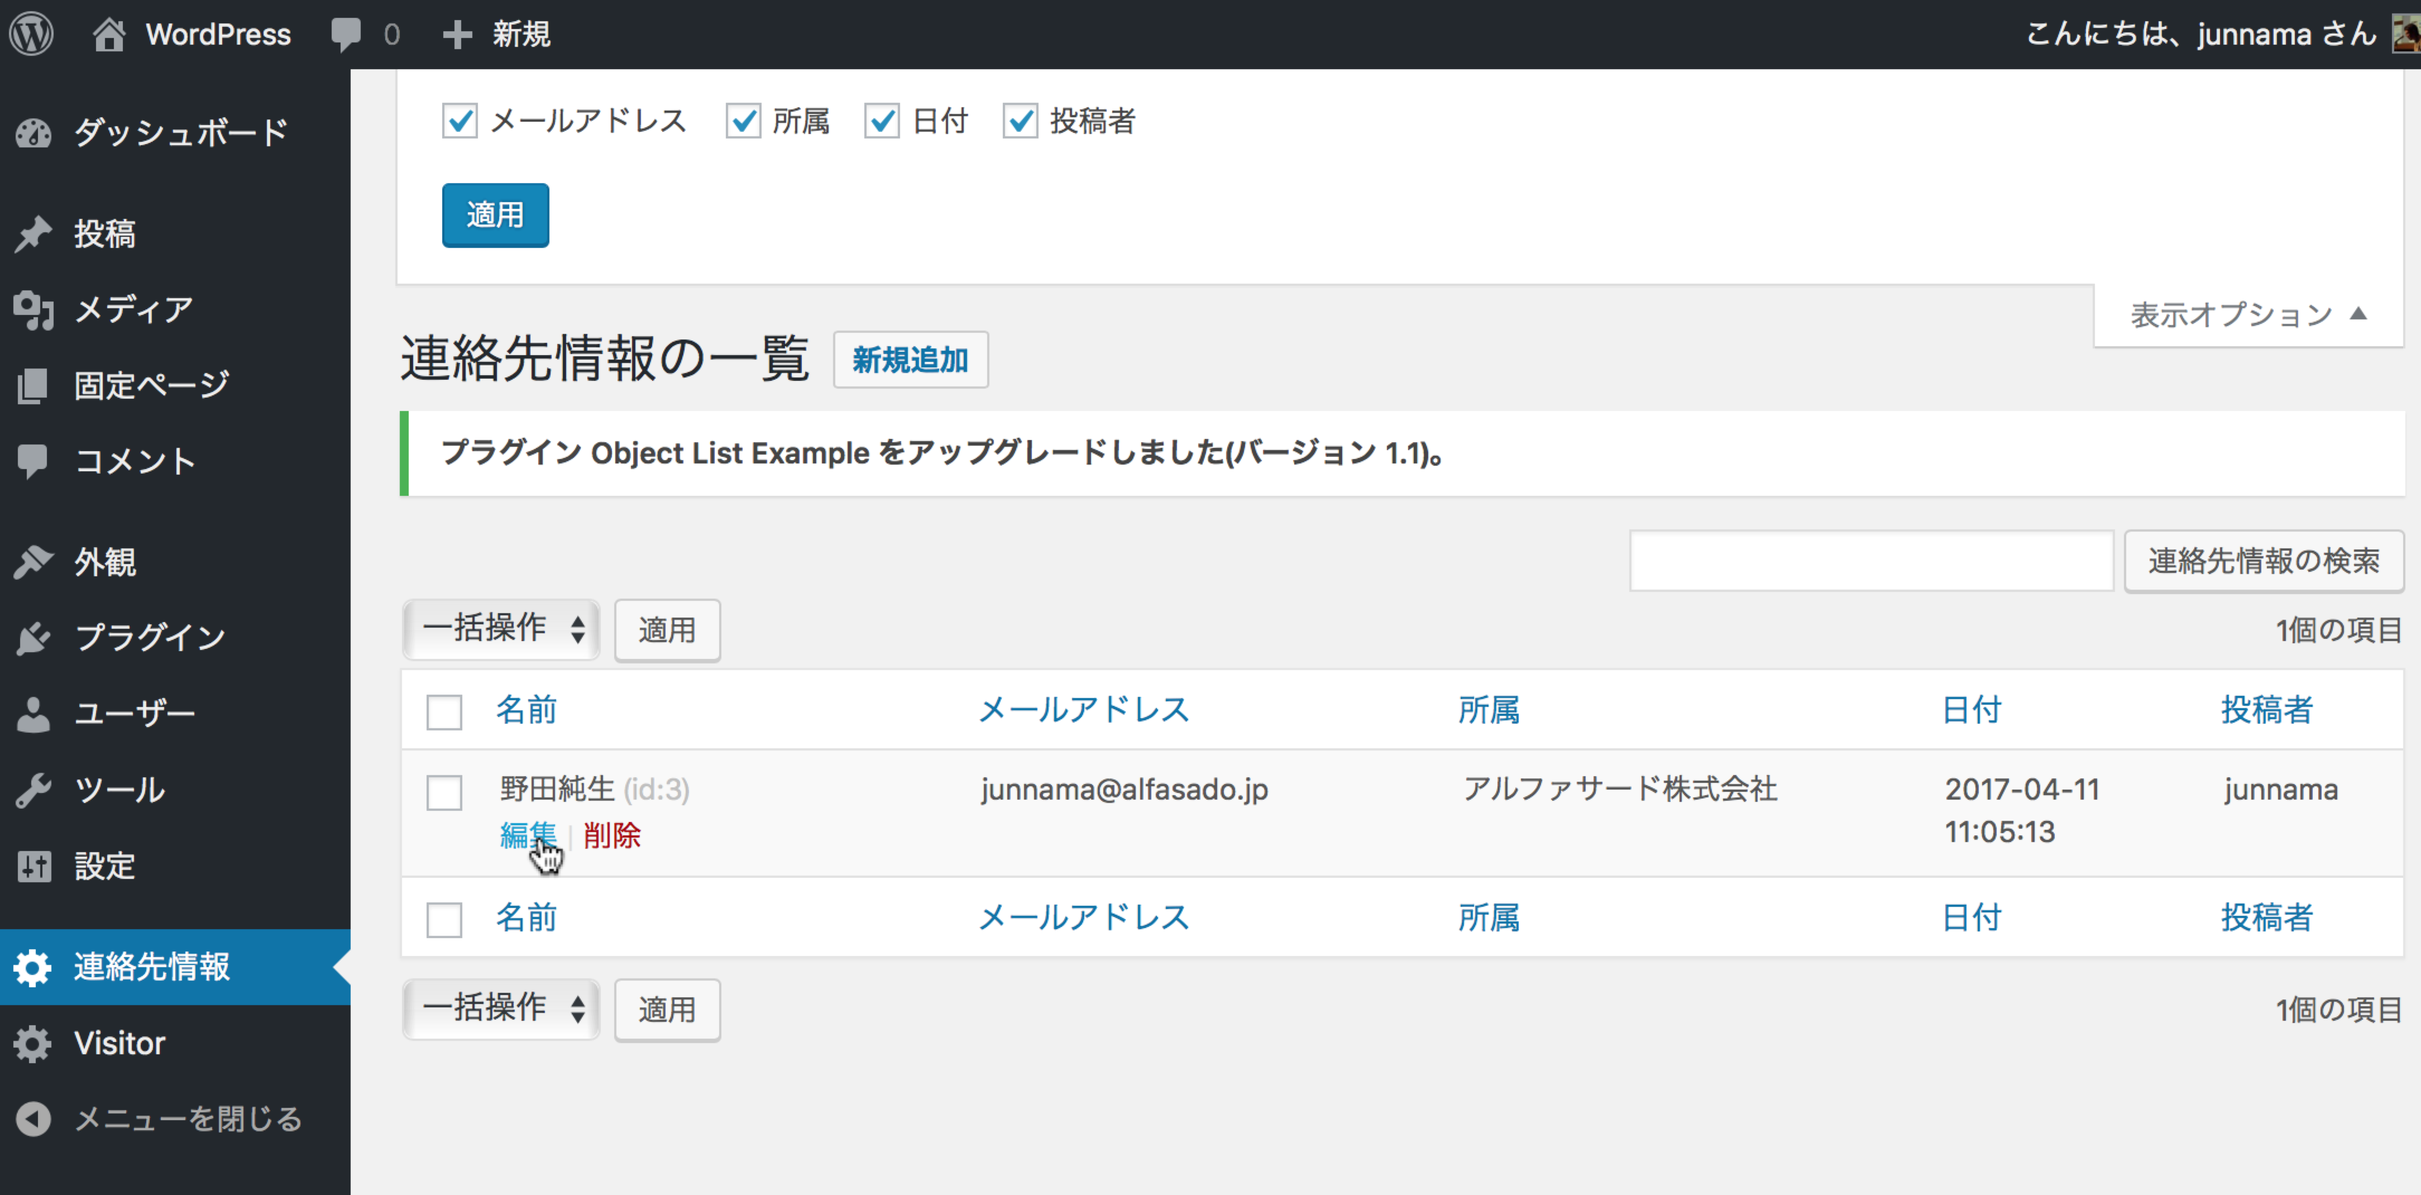
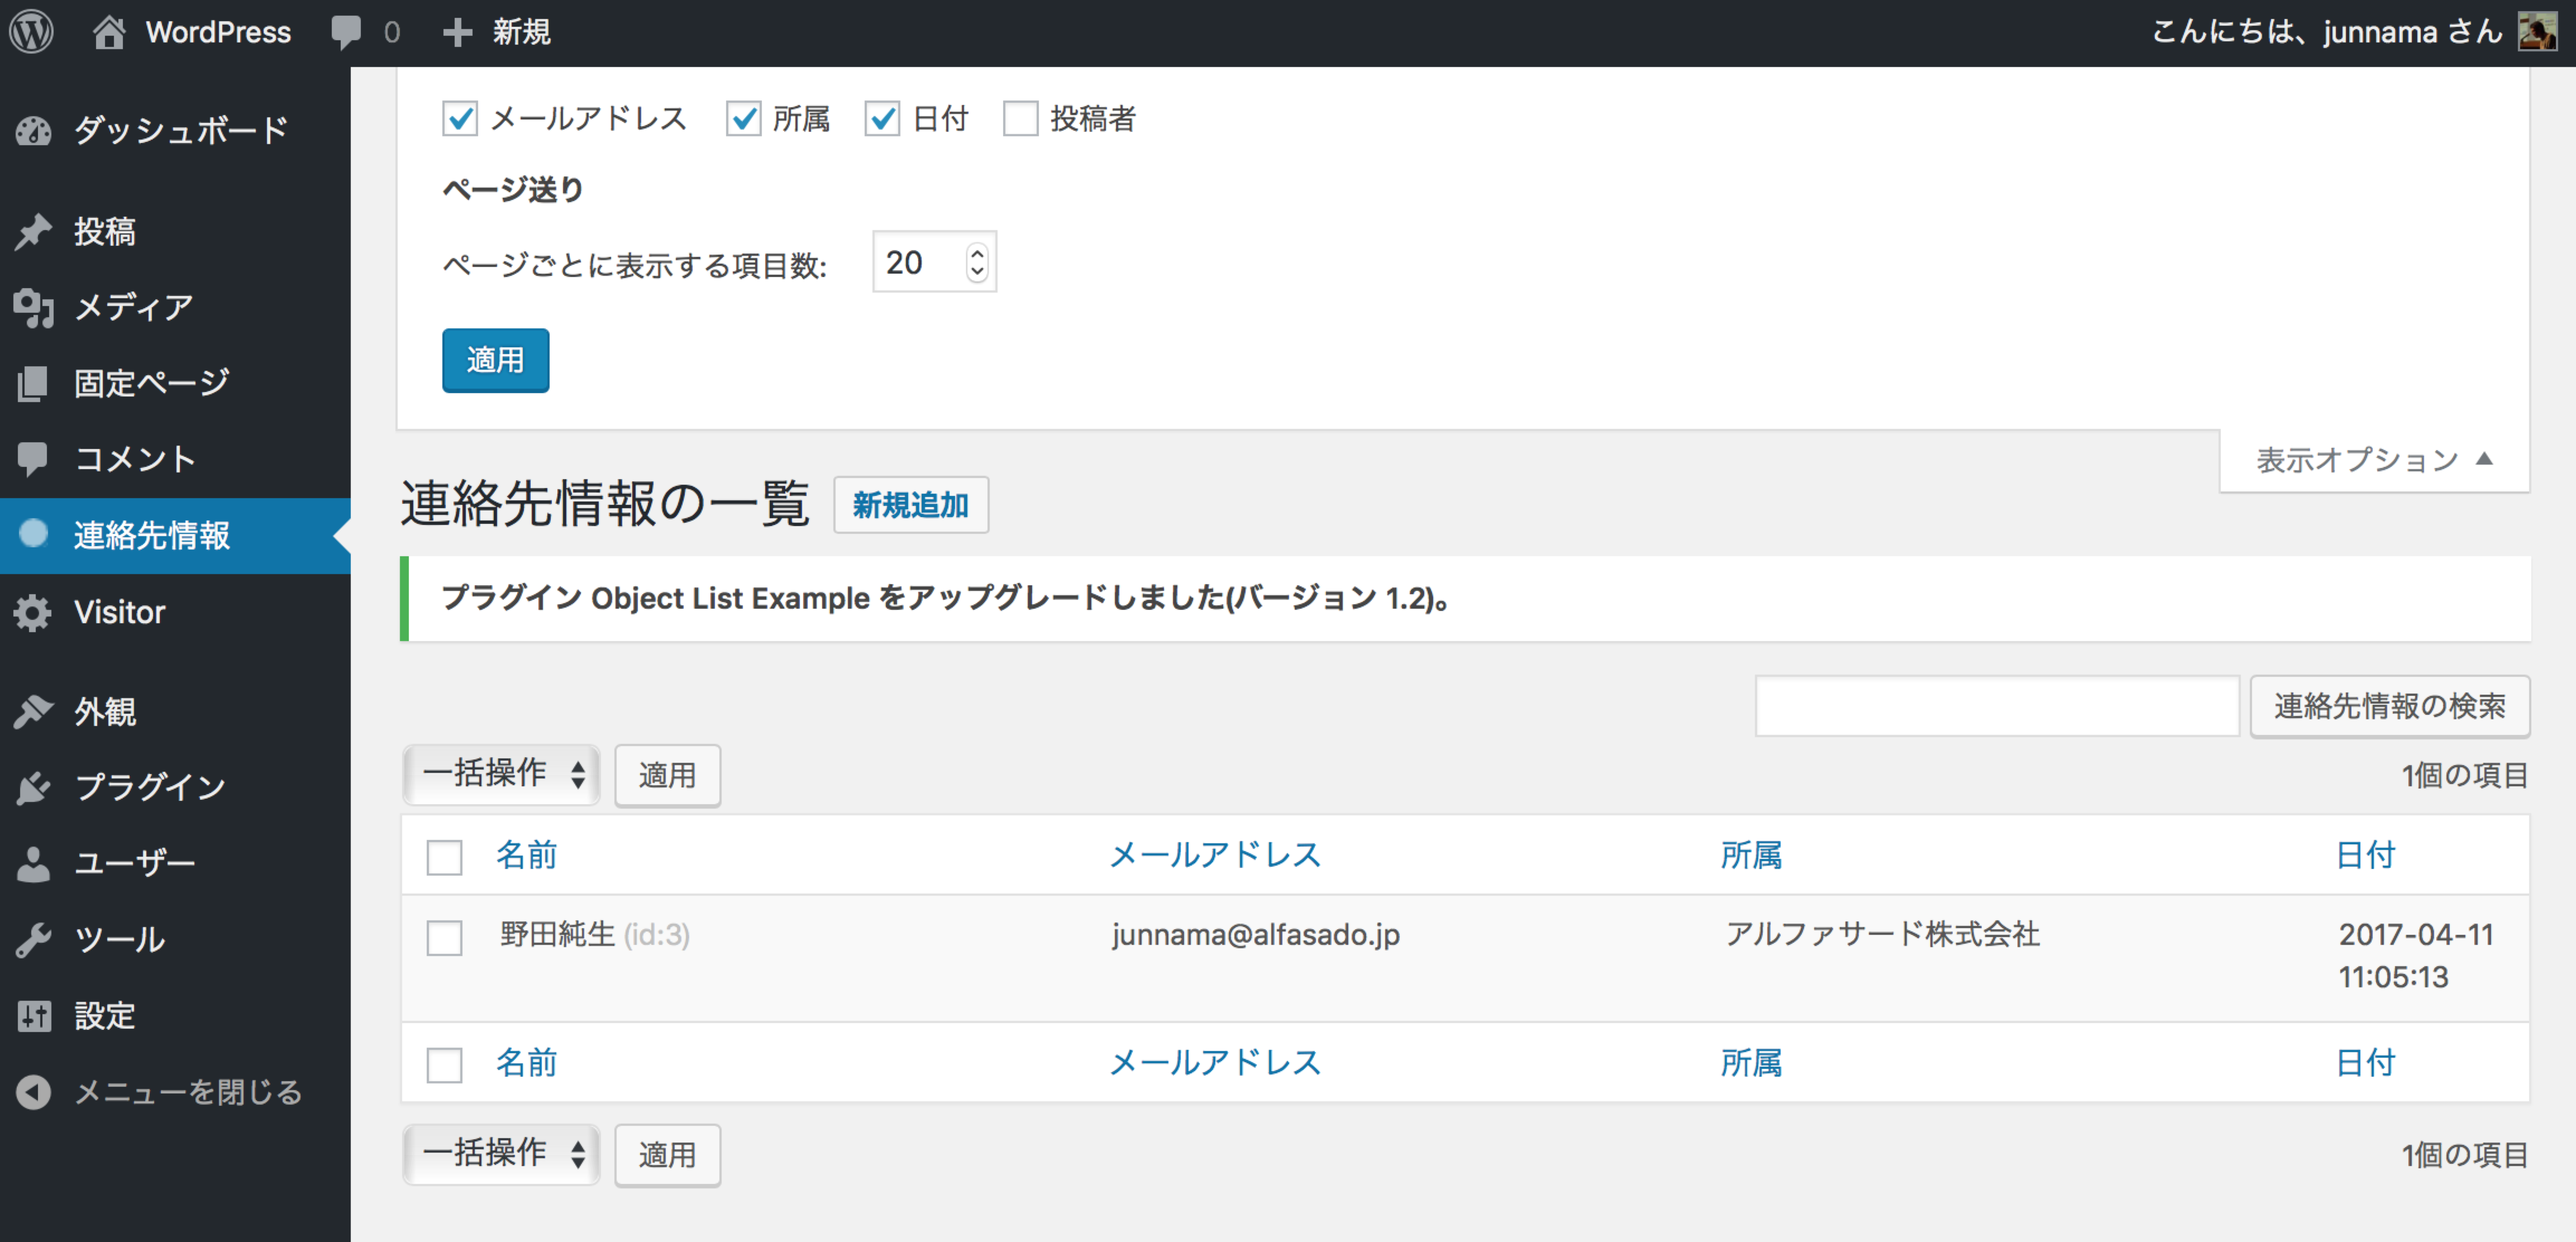
Add diaplay option 'pagination'.

diff --git a/wp-content/plugins/list-base-object/list-base-object.php b/wp-content/plugins/list-base-object/list-base-object.php
@@ -41,13 +41,18 @@ class ListBaseObjectInit {
                     $options[] = $key;
                 }
             }
+            $paging = $_REQUEST[ $_table.'-object-per-page' ];
+            if ( $paging ) {
+                $paging = (int) $paging;
+                update_option( "${_page}-paging-${user_id}", $paging );
+            }
             update_option( "${_page}-disp_opt-${user_id}", implode( ',', $options ) );
         }
         $singular = $objectTable->_translate( $objectTable->singular );
         $plural = $objectTable->_translate( $objectTable->plural );
         $action = $objectTable->current_action();
         if ( $action && ( ( $action == 'edit' ) || ( $action == 'save' ) ) ) {
-            if (! $_REQUEST[ $objectTable->_table ] ) {
+            if (! $_REQUEST[ $_table ] ) {
                 $page_title = $objectTable->_translate( 'Add New %s', $singular );
             } else {
                 $page_title = $objectTable->_translate( 'Edit %s', $singular );
@@ -56,8 +61,7 @@ class ListBaseObjectInit {
             $page_title = $objectTable->_translate( 'List of %s', $plural );
         }
         $this->page_title = $page_title;
-        $prefix = $objectTable->_table;
-        $menu_function_name = $prefix.'_add_menu_items';
+        $menu_function_name = $_table . '_add_menu_items';
         $permission = $objectTable->permission;
         $icon_url = null;
         if ( $objectTable->icon_url ) {
@@ -65,11 +69,11 @@ class ListBaseObjectInit {
         }
         if ( $objectTable->menu_type == 'object' ) {
             add_object_page( $page_title, $singular,
-            $permission, $prefix.'_list_objects', array( $this, 'class_render_list_page' ),
+            $permission, $_table.'_list_objects', array( $this, 'class_render_list_page' ),
             $icon_url );
         } else {
             add_menu_page( $page_title, $singular,
-            $permission, $prefix.'_list_objects', array( $this, 'class_render_list_page' ),
+            $permission, $_table . '_list_objects', array( $this, 'class_render_list_page' ),
             $icon_url, $objectTable->menu_order );
         }
     }
@@ -229,6 +233,11 @@ EOM;
         $action = $objectTable->_table;
         $_page = "${action}_list_objects";
         $disp_option = get_option( "${_page}-disp_opt-${user_id}" );
+        $disp_paging = get_option( "${_page}-paging-${user_id}" );
+        if (! $disp_paging ) {
+            $disp_paging = $objectTable->per_page;
+        }
+        $disp_paging = (int) $disp_paging; // or esc_html
         $disp_options = explode( ',', $disp_option );
         $column_defs = $objectTable->column_defs();
         $cb = '';
@@ -253,8 +262,8 @@ EOM;
         $apply_label = $objectTable->_translate( 'Apply' );
         $_prefix = $objectTable->_table;
         $_page = "${_prefix}_list_objects";
-        //$_page = esc_html( $_REQUEST[ 'page' ] );
-        //TODO :: Pagination per..
+        $pagination = $objectTable->_translate( 'Pagination' );
+        $pagination_label = $objectTable->_translate( 'Number of items per page:' );
         $options = <<< EOM
 <div id="screen-meta" class="metabox-prefs">
 <div id="screen-options-wrap" class="hidden" tabindex="-1" aria-label="${tab_label}">
@@ -264,6 +273,14 @@ EOM;
     <fieldset class="metabox-prefs">
     ${cb}
     </fieldset>
+    <fieldset class="metabox-prefs">
+    <legend>${pagination}</legend>
+    <label for="object_per_page">${pagination_label}</label>
+    <input type="number" step="1" min="1" max="999" class="screen-per-page" name="${_prefix}-object-per-page"
+                id="object_per_page" maxlength="3"
+                value="${disp_paging}" />
+    </fieldset>
+
     <p class="submit"><input type="submit" name="screen-options-apply" id="screen-options-apply" class="button button-primary" value="${apply_label}"  /></p>
     </form>
 </div>
@@ -919,7 +936,6 @@ EOM;
     }
     function prepare_items() {
         global $wpdb;
-        $per_page = $this->per_page;
         $columns = $this->get_columns();
         $hidden = array();
         $sortable = $this->get_sortable_columns();
@@ -932,6 +948,15 @@ EOM;
         }
         $paged = (int) $paged;
         if (! $paged ) $paged = 1;
+        $user = wp_get_current_user();
+        $user_id = $user->get( 'ID' );
+        $_table = $this->_table;
+        $_page = "${_table}_list_objects";
+        $disp_paging = get_option( "${_page}-paging-${user_id}" );
+        if ( $disp_paging ) {
+            $this->per_page = $disp_paging;
+        }
+        $per_page = $this->per_page;
         $offsetLimit .= " LIMIT ${per_page} ";
         if ( $paged > 1 ) {
             $paged--;

diff --git a/wp-content/plugins/object-list-example/object-list-example.php b/wp-content/plugins/object-list-example/object-list-example.php
@@ -14,7 +14,7 @@ require_once( ABSPATH . 'wp-content/plugins/list-base-object/list-base-object.ph
 class ObjectListExample extends ListBaseObject {
     public $plugin_id    = 'Object List Example';
     public $plugin_key   = 'objectlistexample';   // Uniqkey for upgrade table
-    public $version      = 1.1;                   // Version for upgrade table
+    public $version      = 1.2;                   // Version for upgrade table
     public $singular     = 'Contact Info';        // Object label
     public $plural       = 'Contact Info';        // Object label plural
     public $_table       = 'contact_info';        // Database table name

diff --git a/README.md b/README.md
@@ -7,7 +7,7 @@ This plugin provides the function to add table and show list and edit screen to 
 
 ##  Screenshot
 
-<div style="text-align:center"><img alt="list screen's screenshot" src="Screenshot.png" width="500" height="246" /></div>
+<div style="text-align:center"><img alt="list screen's screenshot" src="Screenshot.png" width="500" /></div>
 
 ##  Custom Class\(es\)
 
